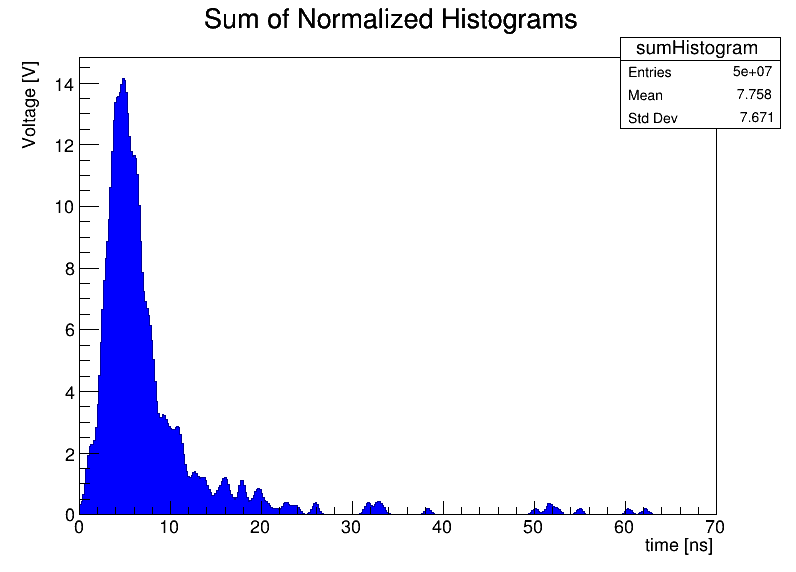
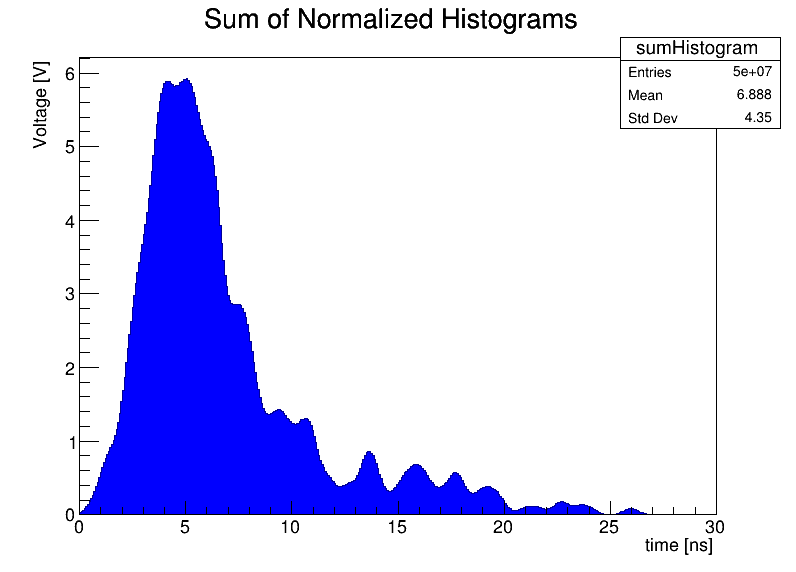
new commit

Changed region(s): [[0.0302, 0.0892, 0.8141, 0.951], [0.9045, 0.1486, 0.9648, 0.208], [0.2111, 0.8916, 0.2412, 0.951]]

diff --git a/time_distribution.C b/time_distribution.C
@@ -43,7 +43,7 @@ int main() {
     std::shuffle(time.begin(), time.end(), g);
 
     // Creazione dell'istogramma di somma
-    TH1F* sumHistogram = new TH1F("sumHistogram", "Sum of Normalized Histograms", 400, 0, 70);
+    TH1F* sumHistogram = new TH1F("sumHistogram", "Sum of Normalized Histograms", 400, 0, 30);
 
     sumHistogram->SetFillColor(kBlue);
     sumHistogram->SetXTitle("time [ns]");
@@ -57,7 +57,7 @@ int main() {
 
     for (int i = 0; i < numEventsToSelect; ++i) {
         double mean = time[i] - minTime; // Traslazione negativa per rimuovere l'offset
-        TH1F* histogram = new TH1F("histogram", "Normalized Histogram", 400, 0, 70);
+        TH1F* histogram = new TH1F("histogram", "Normalized Histogram", 400, 0, 30);
 
         // Riempimento e normalizzazione dell'istogramma corrente
         for (int j = 0; j < 100000; ++j) {
